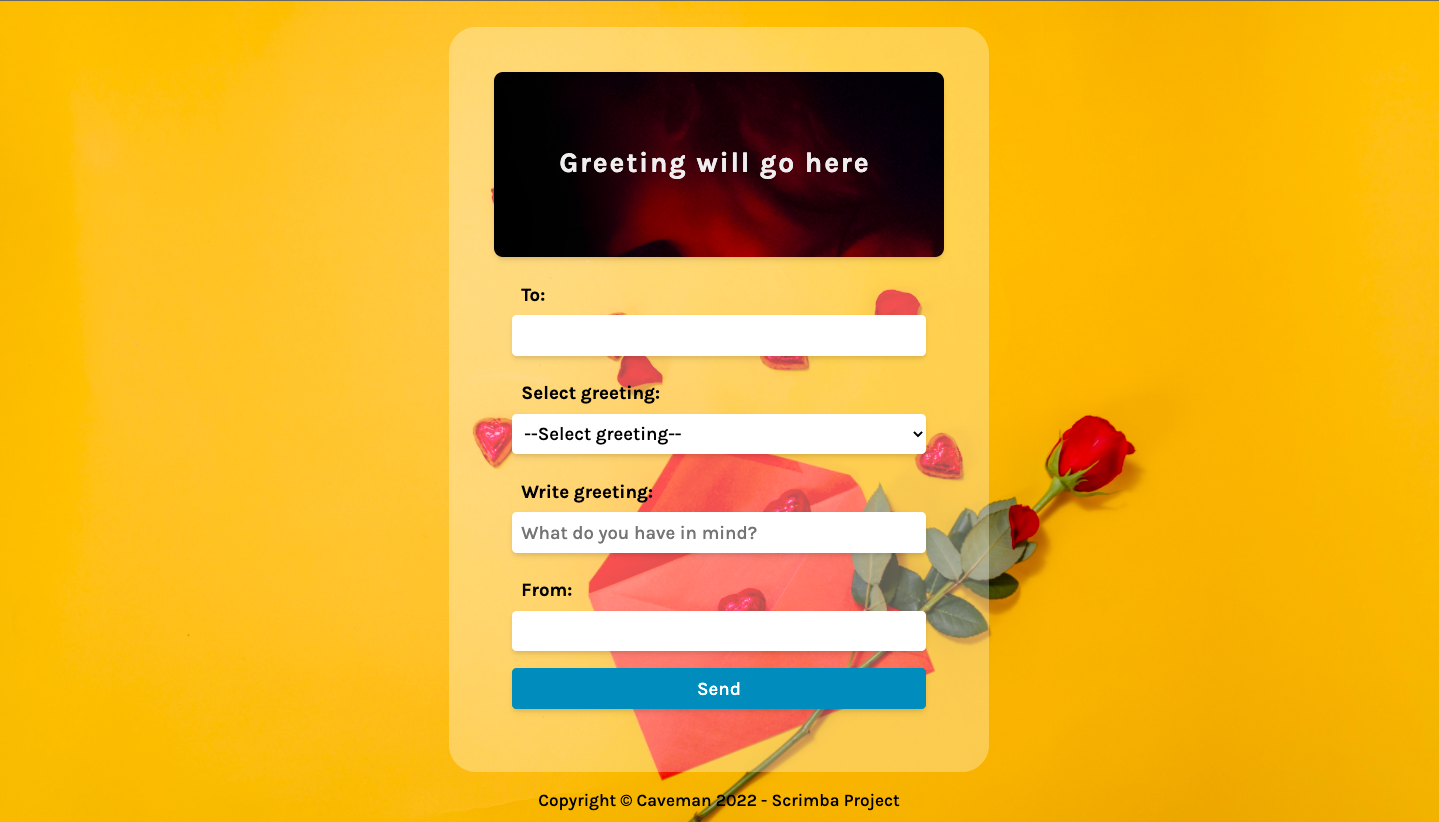
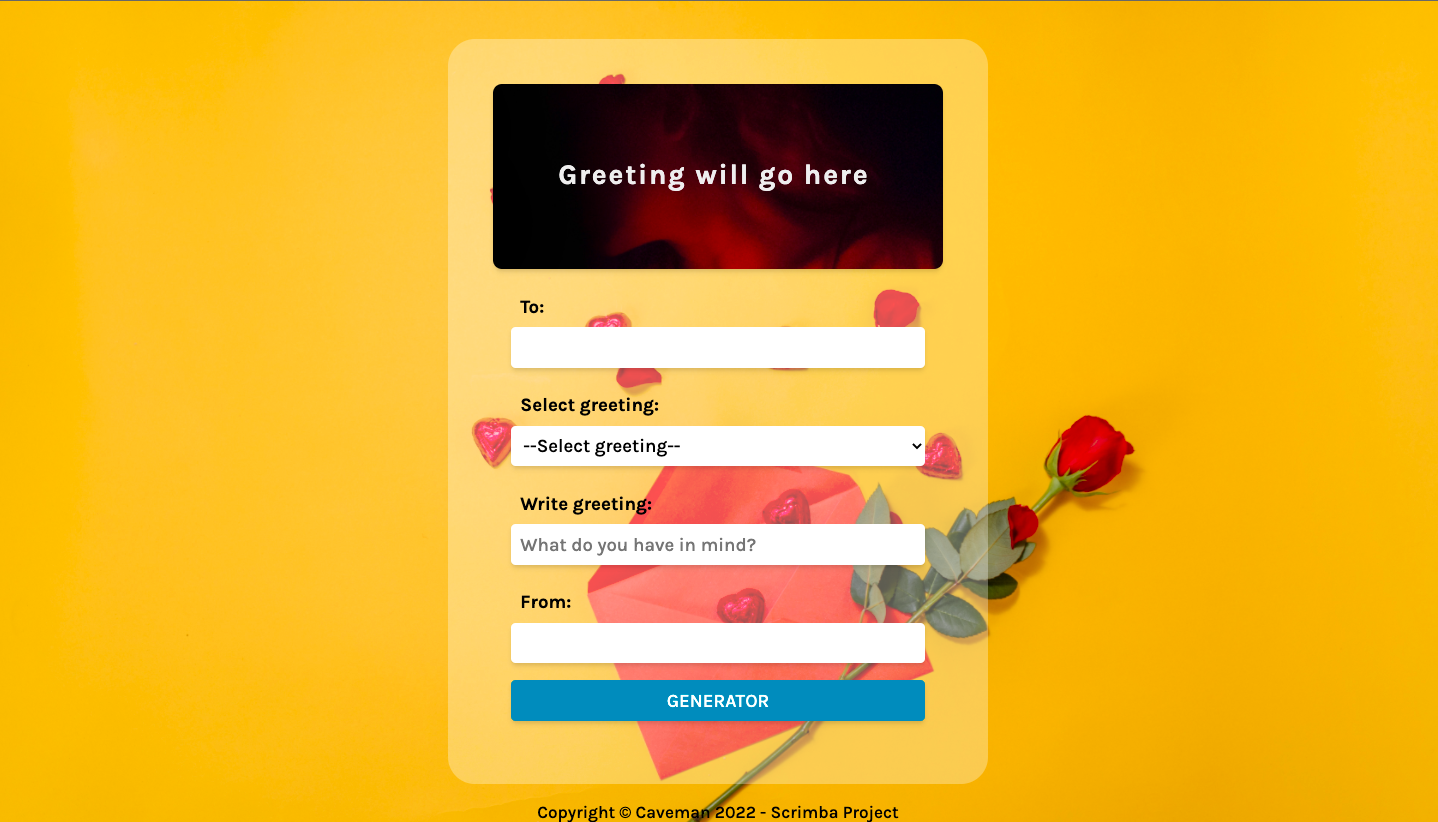
Deploy ready

diff --git a/index.html b/index.html
@@ -33,7 +33,7 @@
                 <label for="sender-input">From:</label>
                 <input type="text" id="sender-input" name="sender-input">
                 <br>
-                <button id="send">Send</button>
+                <button id="send">GENERATOR</button>
             </form>
         </div>
         <footer>Copyright &copy; Caveman 2022 - Scrimba Project</footer>
